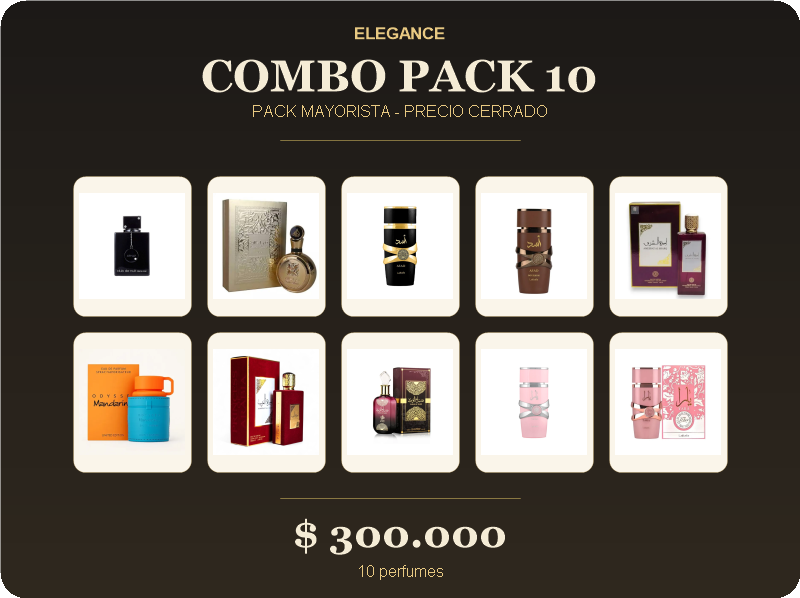
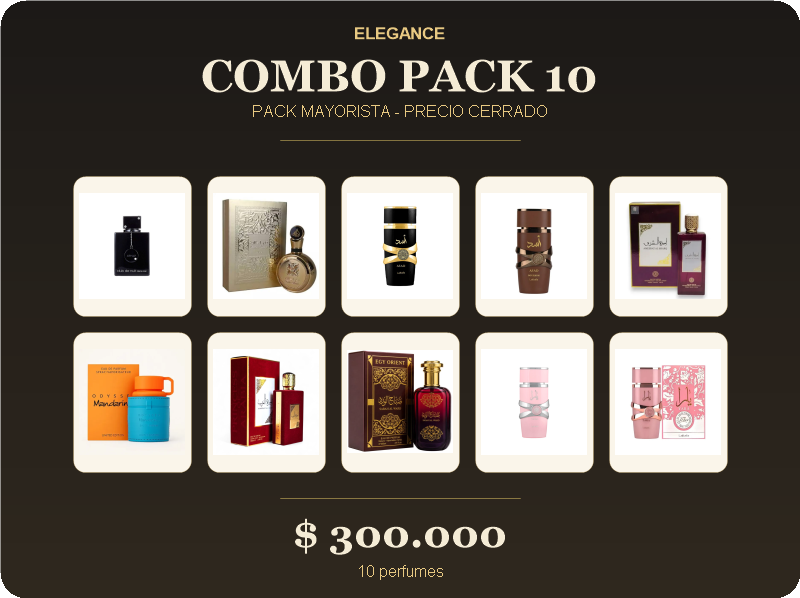
Renombrar Sabah Al Ward a EGY ORIENT 100ml y actualizar su foto

Changed region(s): [[0.4375, 0.5719, 0.5625, 0.7525]]

diff --git a/js/products.js b/js/products.js
@@ -16,7 +16,7 @@ const PRODUCTS = [
   { id: 760112, brand: "ASDAAF", name: "Ameerat Al Sharq Parfum 100ml", gender: "F", retailARS: 40000, img: "img/products/760112.png", pitch: "Oriental, ámbar y vainilla profunda. Exótico y duradero." },
   { id: 103239, brand: "ARMAF", name: "Odyssey Mandarin Sky EDP 100ml", gender: "M", retailARS: 40000, img: "img/products/103239.png", pitch: "Fresco, dulce y frutal con un fondo almizclado moderno." },
   { id: 760113, brand: "ASDAAF", name: "Ameerat Al Arab EDP 100ml", gender: "F", retailARS: 40000, img: "img/products/760113.jpg", pitch: "Floral frutal ultra femenino, chispeante y adictivo." },
-  { id: 2057, brand: "AL WATANIAH", name: "Sabah Al Ward EDP 100ml", gender: "F", retailARS: 40000, img: "img/products/2057.png", pitch: "Floral blanco elegante, limpio, luminoso y sofisticado." },
+  { id: 2057, brand: "EGY ORIENT", name: "Sabah Al Ward 100ml", gender: "F", retailARS: 40000, img: "img/products/2057.png", pitch: "Floral blanco elegante, limpio, luminoso y sofisticado." },
   { id: 26243, brand: "LATTAFA", name: "Yara EDP 100ml", gender: "F", retailARS: 40000, img: "img/products/26243.png", pitch: "El viral mundial. Dulce, avainillado cremoso estilo postre." },
   { id: 760114, brand: "LATTAFA", name: "Yara Elixir EDP 100ml", gender: "F", retailARS: 40000, img: "img/products/760114.png", pitch: "La evolución más intensa, ambarina y seductora de la línea Yara." }
 ];
